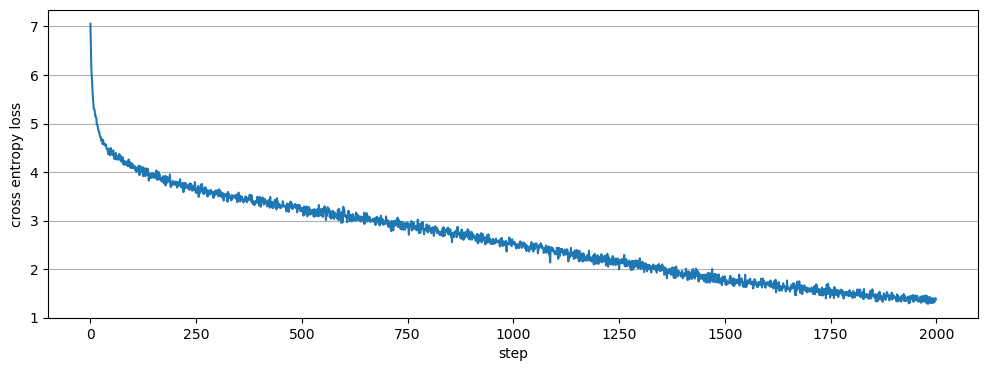
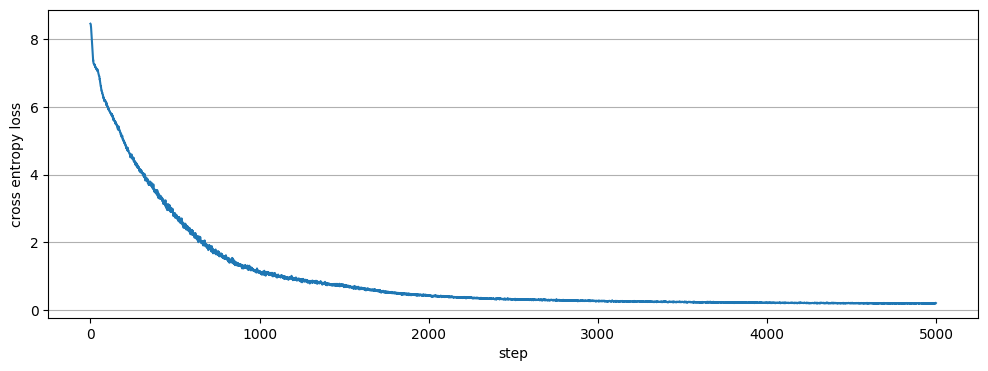
small pretraining run

diff --git a/README.md b/README.md
@@ -25,9 +25,33 @@ The implementation only depends on Python and Pytorch:
 
 ## Usage <a name = "usage"></a>
 
-You can refer to the notebook in `example/shakespeare.ipynb` for an end-to-end pre-training example on a small dataset, with a model of around 10M parameters only. The loss still decreases after 2000 iterations and the training loss is quite stable so we could train it further to improve its generative abilities.
+You can refer to the notebook in `example/shakespeare.ipynb` for an end-to-end pre-training example on a small dataset, with a model of around 3M parameters only trained over 5000 steps of random batches sampled from `tinyshakespear.txt`
 
 <p align="center"><img src="resources/example-loss.png?raw=true"/></p>
+
+As we appended `<eos>` at each prose block boundaries, the model has learned to generate proses if prompted with a character's label:
+
+```python
+prompt = tokenizer.encode("KING HENRY VI:\n")
+inputs = torch.tensor(prompt, dtype=torch.int32).unsqueeze(0).to(train_config.device)
+out = model.generate(inputs, max_seq_len=256, stop_tokens={eos_id})
+print(tokenizer.decode(out.tolist(), skip_special_tokens=True))
+```
+
+Generates
+
+```
+KING HENRY VI:
+Thy father, Warwick wince, to word true: and thee you upon,
+This happy brother of France should failst,
+My histed to prove my friends and whose fillness,
+Braken worse earth and all andker name, friends
+I foreignted by the power I have,
+Whose revelful sons
+Of field, nor who sensed his teemes in ha' blood,
+Or chouldst go measure for these opposing wread,
+And allowly for shame: at me, my lord, 'tis gone.
+```
 
 ## What is Llama
 